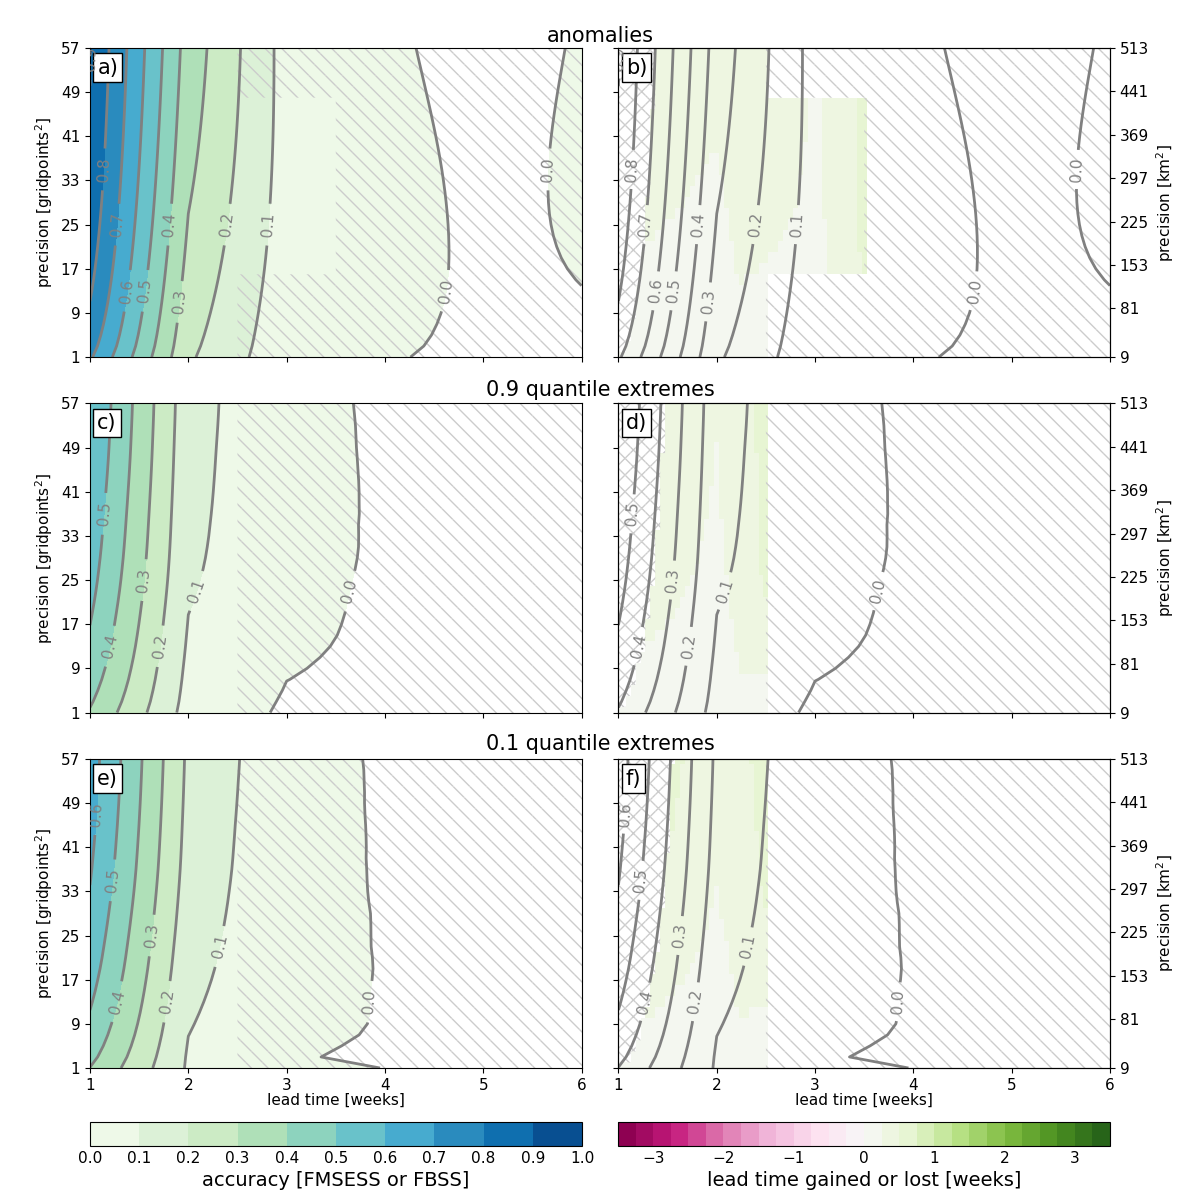
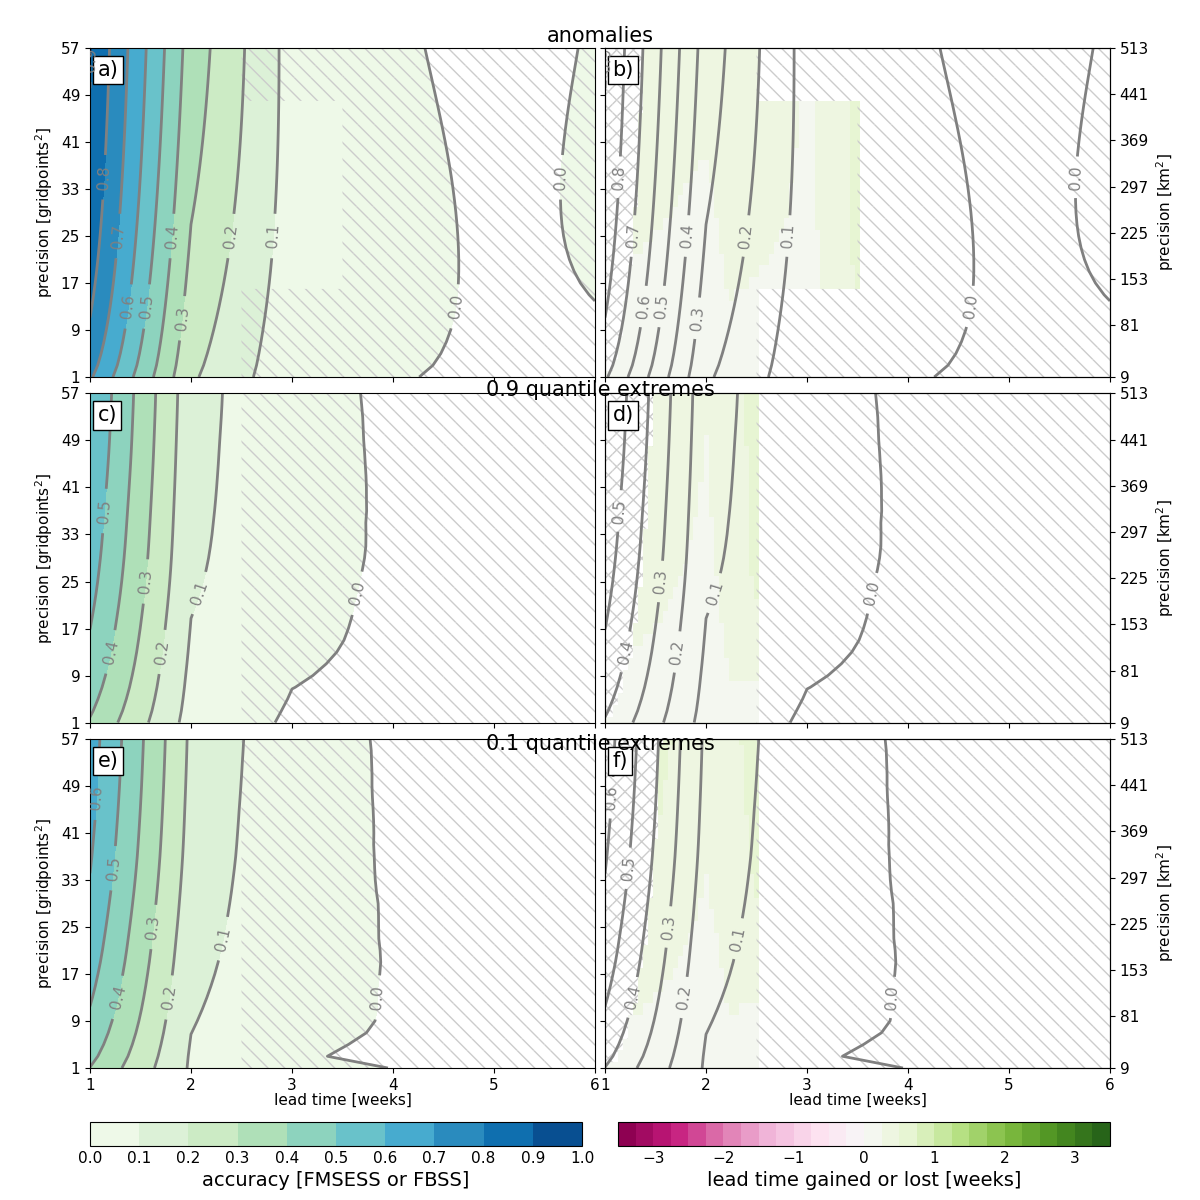
update

diff --git a/code/plot/plot-fig-03.py b/code/plot/plot-fig-03.py
@@ -103,7 +103,7 @@ setup_subplot(3, ax[3], ds2, 'd)', clevs_score,clevs_ltg, cmap_score, cmap_ltg, 
 
 p2 = setup_subplot(5, ax[5], ds3, 'f)', clevs_score,clevs_ltg, cmap_score, cmap_ltg, fontsize)
 
-fig.subplots_adjust(right=0.925, left=0.075,top=0.96,hspace=0.15,wspace=0.075)
+fig.subplots_adjust(right=0.925, left=0.075,top=0.96,hspace=0.05,wspace=0.02)
 
 cb1_ax = fig.add_axes([0.075, 0.045, 0.41, 0.02])
 cb1    = fig.colorbar(p1, cax=cb1_ax, orientation='horizontal',ticks=clevs_score, pad=0.025)
